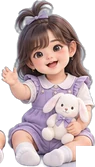
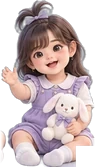
v140：修掉立繪貼邊被裁切造成的硬邊，改成羽化淡出

Changed region(s): [[0.0, 0.7784, 0.0632, 0.988], [0.9474, 0.8084, 1.0, 0.8982], [0.9474, 0.6287, 1.0, 0.6587]]

diff --git a/src/version.js b/src/version.js
@@ -1,3 +1,3 @@
 // 遊戲版本號。改動時跟 README 的版本紀錄一起加。
 // 首頁最下面會顯示，這樣一眼就知道手機上跑的是不是最新的那一版。
-export const APP_VERSION = 'v139';
+export const APP_VERSION = 'v140';
